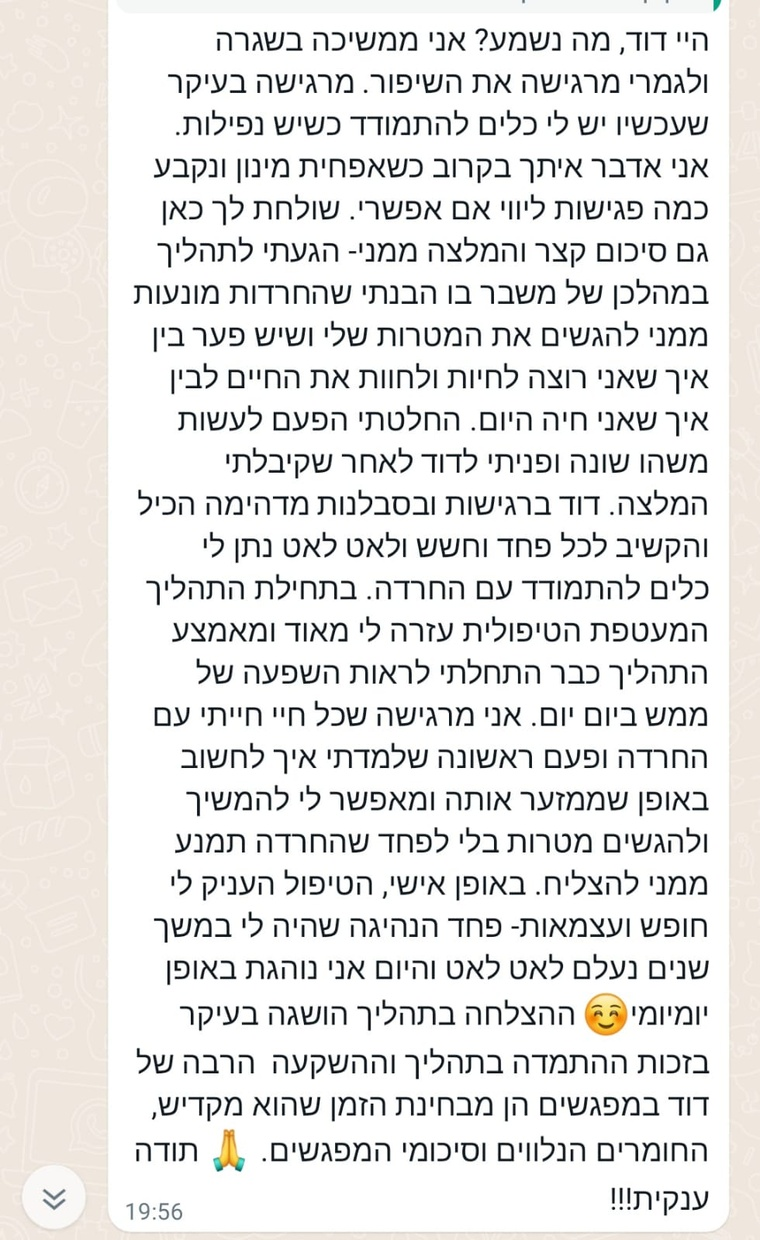
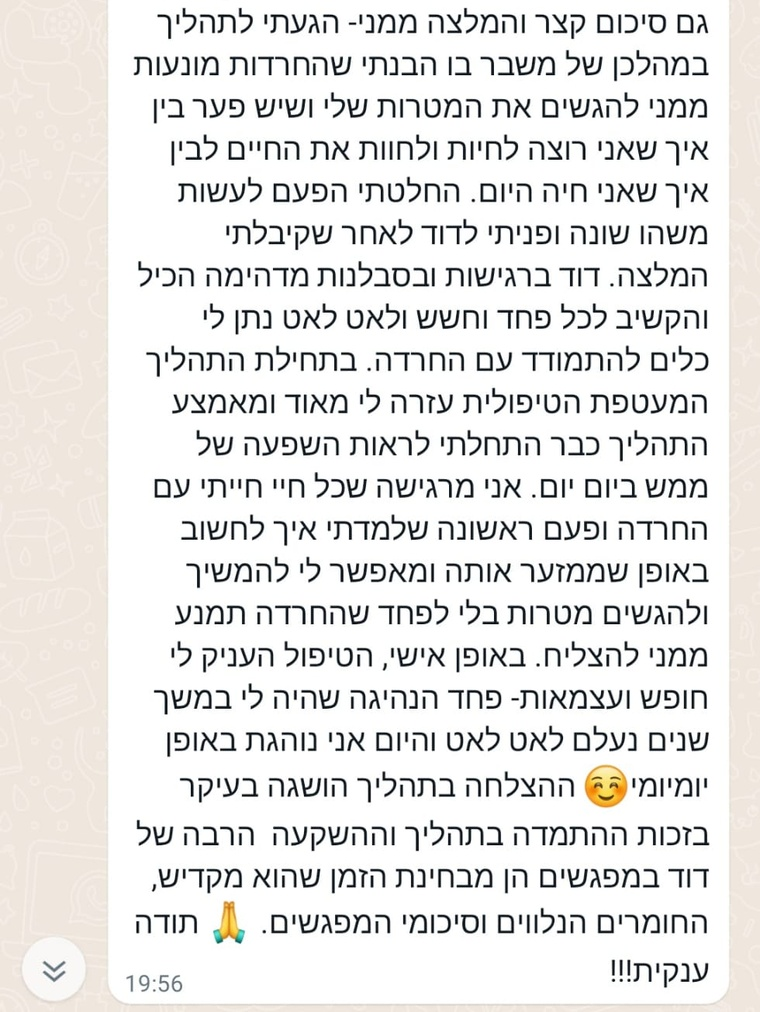
Add testimonial titles/lightbox and fix signature tagline
- Crop the first testimonial screenshot to start from its sixth line,
  dropping the opening small talk and keeping only the actual
  recommendation.
- Give each testimonial screenshot a bold title above it, and make
  the screenshot open in a lightbox (dark overlay, enlarged image,
  X button to close) instead of sitting inline at thumbnail size.
- Fix the "signature" line near the disclaimer, which still read
  "טיפול ואימון רגשי" — change it to "חוזרים לסמוך על עצמנו" to match
  the footer and the rest of the page.

Claude-Session: https://claude.ai/code/session_01WiDMkSBkK4jdVKKtxpuhzg

Changed region(s): [[0.1816, 0.0, 0.9382, 1.0], [0.0605, 0.919, 0.0908, 0.9802]]

diff --git a/hadracha/index.html b/hadracha/index.html
@@ -110,8 +110,18 @@ p+p{margin-top:.85em}
 .lesson .icon-badge .num{position:absolute;bottom:-6px;left:-6px;width:26px;height:26px;font-size:.8rem;box-shadow:0 2px 8px rgba(20,43,32,0.3)}
 
 /* testimonial screenshots */
-.quote-shot{width:100%;height:auto;max-width:280px;margin:0 auto;border-radius:var(--radius-sm);box-shadow:var(--shadow-sm);display:block}
-.quotes-grid{display:flex;flex-wrap:wrap;gap:20px;justify-content:center;align-items:flex-start;margin-bottom:20px}
+.quote-shot{width:100%;height:auto;display:block}
+.quotes-grid{display:flex;flex-wrap:wrap;gap:28px;justify-content:center;align-items:flex-start;margin-bottom:20px}
+.testimonial-card{max-width:280px}
+.testimonial-card figcaption{font-weight:700;color:var(--ink);font-size:.98rem;line-height:1.5;margin-bottom:12px;text-align:center}
+.quote-shot-btn{appearance:none;border:none;padding:0;margin:0;background:none;cursor:pointer;display:block;width:100%;border-radius:var(--radius-sm);overflow:hidden;box-shadow:var(--shadow-sm);position:relative}
+.quote-shot-btn:hover .quote-shot-expand,.quote-shot-btn:focus-visible .quote-shot-expand{opacity:1}
+.quote-shot-expand{position:absolute;inset:auto 0 0 0;padding:10px;background:linear-gradient(0deg,rgba(20,43,32,0.82),transparent);color:#fff;font-size:.82rem;font-weight:600;opacity:0;transition:opacity .18s var(--ease)}
+
+.lightbox{position:fixed;inset:0;z-index:200;background:rgba(20,30,25,0.88);display:flex;align-items:center;justify-content:center;padding:40px 20px}
+.lightbox[hidden]{display:none}
+.lightbox img{max-width:min(94vw,640px);max-height:88vh;width:auto;height:auto;border-radius:var(--radius-sm);box-shadow:0 20px 60px rgba(0,0,0,0.5)}
+.lightbox-close{position:absolute;top:18px;left:18px;width:44px;height:44px;border-radius:50%;border:none;background:#fff;color:var(--ink);font-size:1.6rem;line-height:1;cursor:pointer;box-shadow:var(--shadow-sm)}
 
 .copy-block{max-width:60ch;margin:0 auto}
 .copy-block p{color:var(--ink-soft)}
@@ -357,8 +367,25 @@ body.a11y-reduce *{animation:none!important;transition:none!important;scroll-beh
     </div>
     <div class="spacer-m"></div>
     <div class="quotes-grid">
-      <img class="quote-shot reveal" style="animation-delay:120ms" src="img/testimonial-1.jpg" alt="הודעת וואטסאפ מלקוחה: הטיפול העניק לי חופש ועצמאות, פחד הנהיגה שהיה לי במשך שנים נעלם לאט לאט והיום אני נוהגת באופן יומיומי" loading="lazy" width="760" height="1240">
-      <img class="quote-shot reveal" style="animation-delay:180ms" src="img/testimonial-2.jpg" alt="הודעת וואטסאפ מלקוחה: לאט לאט מצליחה לעשות יותר דברים שפעם היו מלחיצים אותי, ויודעת לקבל תחושה לא נעימה בחמלה בלי להגיע להתקף חרדה" loading="lazy" width="760" height="871">
+      <figure class="testimonial-card reveal" style="animation-delay:120ms">
+        <figcaption>"הטיפול העניק לי חופש ועצמאות — פחד הנהיגה שהיה לי במשך שנים נעלם לאט לאט, והיום אני נוהגת באופן יומיומי."</figcaption>
+        <button type="button" class="quote-shot-btn" data-lightbox-src="img/testimonial-1.jpg" aria-label="הצגת ההודעה המלאה בהגדלה">
+          <img class="quote-shot" src="img/testimonial-1.jpg" alt="הודעת וואטסאפ מלקוחה על הטיפול והחזרה לנהיגה יומיומית" loading="lazy" width="760" height="1012">
+          <span class="quote-shot-expand">להצגת ההודעה המלאה</span>
+        </button>
+      </figure>
+      <figure class="testimonial-card reveal" style="animation-delay:180ms">
+        <figcaption>"לאט לאט מצליחה לעשות יותר דברים שפעם היו מלחיצים אותי, ויודעת לקבל תחושה לא נעימה בחמלה בלי להגיע להתקף חרדה."</figcaption>
+        <button type="button" class="quote-shot-btn" data-lightbox-src="img/testimonial-2.jpg" aria-label="הצגת ההודעה המלאה בהגדלה">
+          <img class="quote-shot" src="img/testimonial-2.jpg" alt="הודעת וואטסאפ מלקוחה על ההתקדמות ההדרגתית וההתמודדות בחמלה" loading="lazy" width="760" height="871">
+          <span class="quote-shot-expand">להצגת ההודעה המלאה</span>
+        </button>
+      </figure>
+    </div>
+
+    <div class="lightbox" id="lightbox" hidden>
+      <button type="button" class="lightbox-close" id="lightboxClose" aria-label="סגירת התמונה">×</button>
+      <img id="lightboxImg" src="" alt="הודעת וואטסאפ מלקוחה, בהגדלה">
     </div>
     <div class="highlight" style="margin-top:26px">המטרה היא לא להפוך לאדם שלעולם לא מרגיש חרדה. המטרה היא שהחרדה תפסיק להיות זו שקובעת לך מה אתה מסוגל לעשות.</div>
     <div class="cta-wrap">
@@ -384,7 +411,7 @@ body.a11y-reduce *{animation:none!important;transition:none!important;scroll-beh
 
   <div class="spacer-l"></div>
 
-  <div class="signature center">דוד אינגבר <span class="role">| טיפול ואימון רגשי</span></div>
+  <div class="signature center">דוד אינגבר <span class="role">| חוזרים לסמוך על עצמנו</span></div>
   <div class="disclaimer">ההדרכה היא כלי ללמידה עצמית ואינה תחליף לאבחון או לטיפול רפואי או נפשי מותאם אישית. במקרה של תסמין רפואי חדש, חריג או מדאיג, יש לפנות לבדיקה רפואית בהתאם לצורך.</div>
 
 </main>
@@ -487,6 +514,27 @@ var SHEET_WEBAPP_URL = "PASTE_YOUR_GOOGLE_APPS_SCRIPT_WEB_APP_URL_HERE";
       showSuccess();
     });
   });
+})();
+
+(function () {
+  var lightbox = document.getElementById('lightbox');
+  var lightboxImg = document.getElementById('lightboxImg');
+  var closeBtn = document.getElementById('lightboxClose');
+  function open(src, alt) {
+    lightboxImg.src = src;
+    lightboxImg.alt = alt || '';
+    lightbox.hidden = false;
+    closeBtn.focus();
+  }
+  function close() { lightbox.hidden = true; lightboxImg.src = ''; }
+  document.querySelectorAll('.quote-shot-btn').forEach(function (btn) {
+    btn.addEventListener('click', function () {
+      open(btn.dataset.lightboxSrc, btn.querySelector('img').alt);
+    });
+  });
+  closeBtn.addEventListener('click', close);
+  lightbox.addEventListener('click', function (e) { if (e.target === lightbox) close(); });
+  document.addEventListener('keydown', function (e) { if (e.key === 'Escape' && !lightbox.hidden) close(); });
 })();
 
 (function () {
